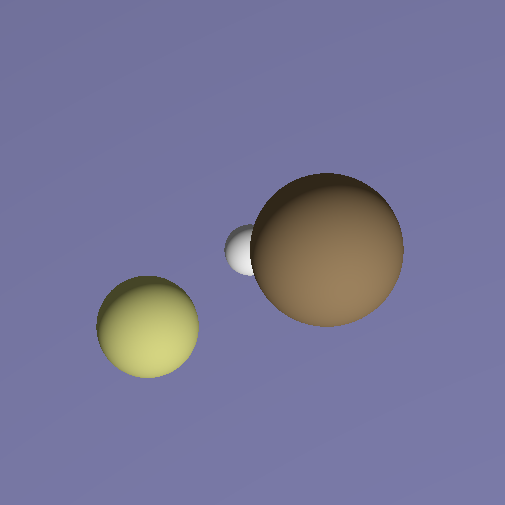
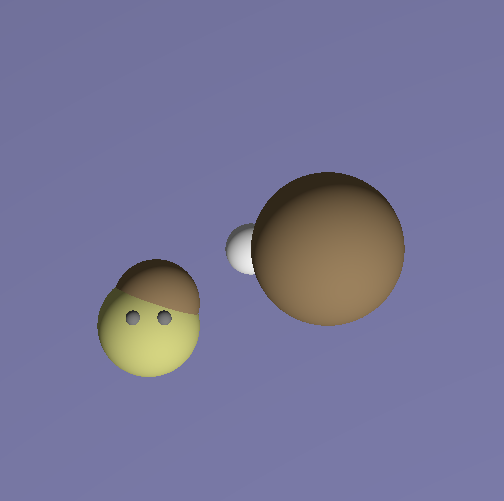
demo overlapping spheres

diff --git a/src/main.rs b/src/main.rs
@@ -24,9 +24,24 @@ async fn run(event_loop: EventLoop<()>, window: Window) {
             radius: 0.3,
         },
         AtomCpu {
-            pos: [-0.4, -0.3, 0.6],
+            pos: [-0.4, -0.3, 0.4],
             color: [0.3, 0.3, 0.1],
             radius: 0.2,
+        },
+        AtomCpu {
+            pos: [-0.37, -0.21, 0.41],
+            color: [0.15, 0.1, 0.05],
+            radius: 0.17,
+        },
+        AtomCpu {
+            pos: [-0.34, -0.27, 0.41 + 0.17],
+            color: [0.1, 0.1, 0.1],
+            radius: 0.03,
+        },
+        AtomCpu {
+            pos: [-0.46, -0.27, 0.41 + 0.17],
+            color: [0.1, 0.1, 0.1],
+            radius: 0.03,
         },
         AtomCpu {
             pos: [0.0, 0.0, -100.0],
